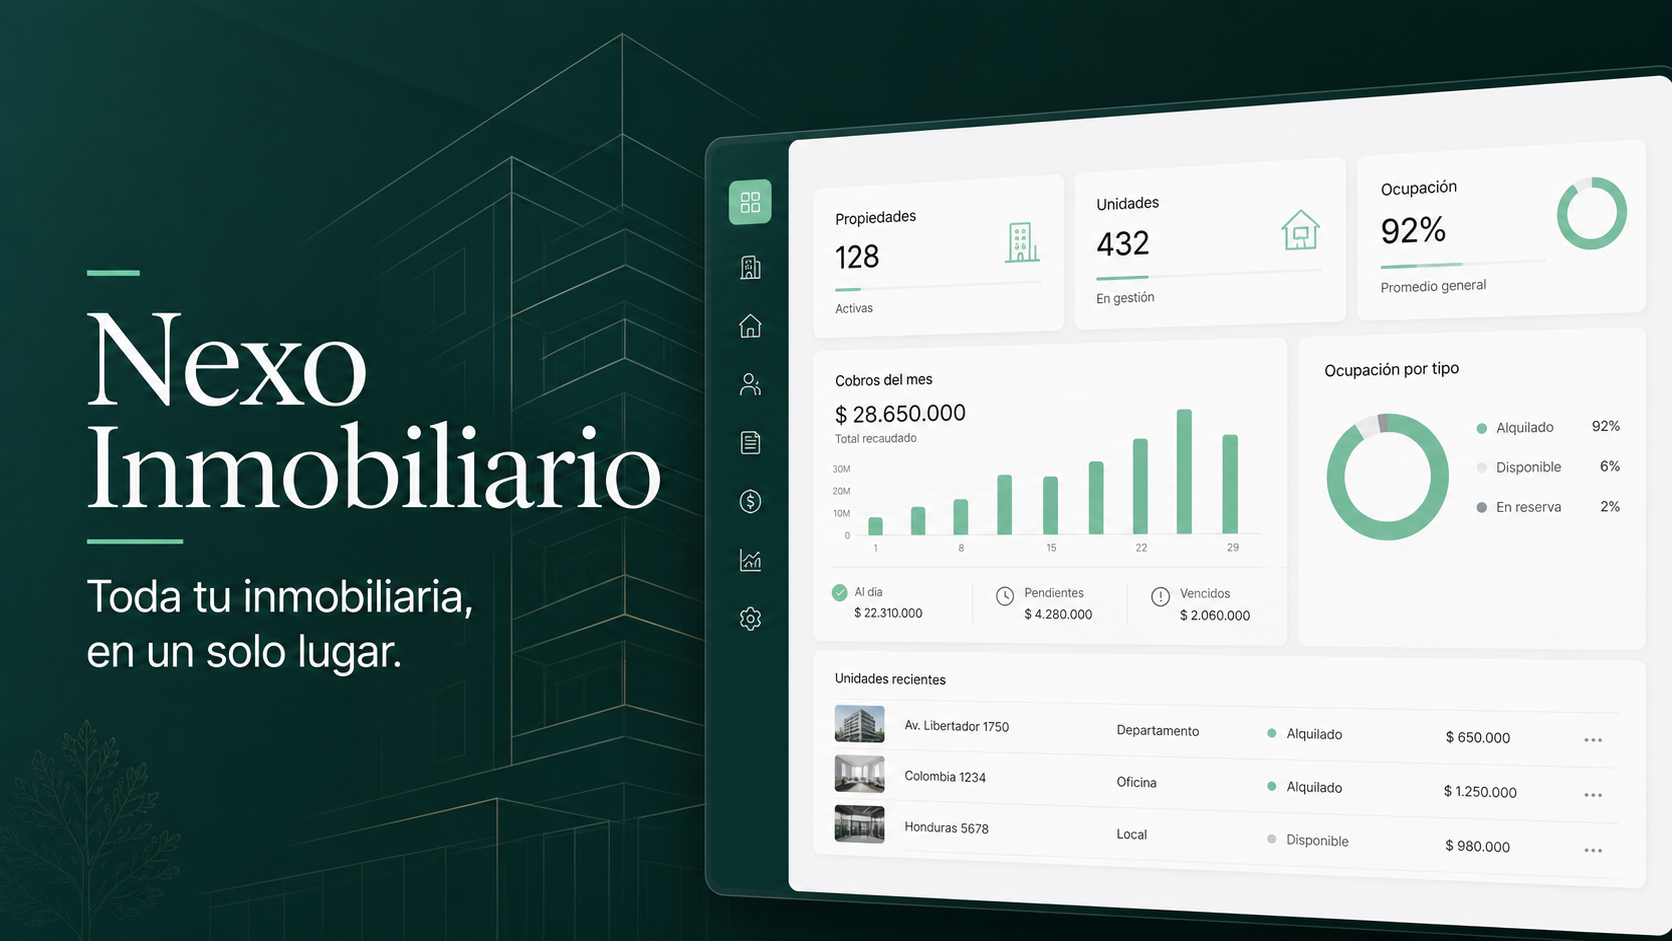
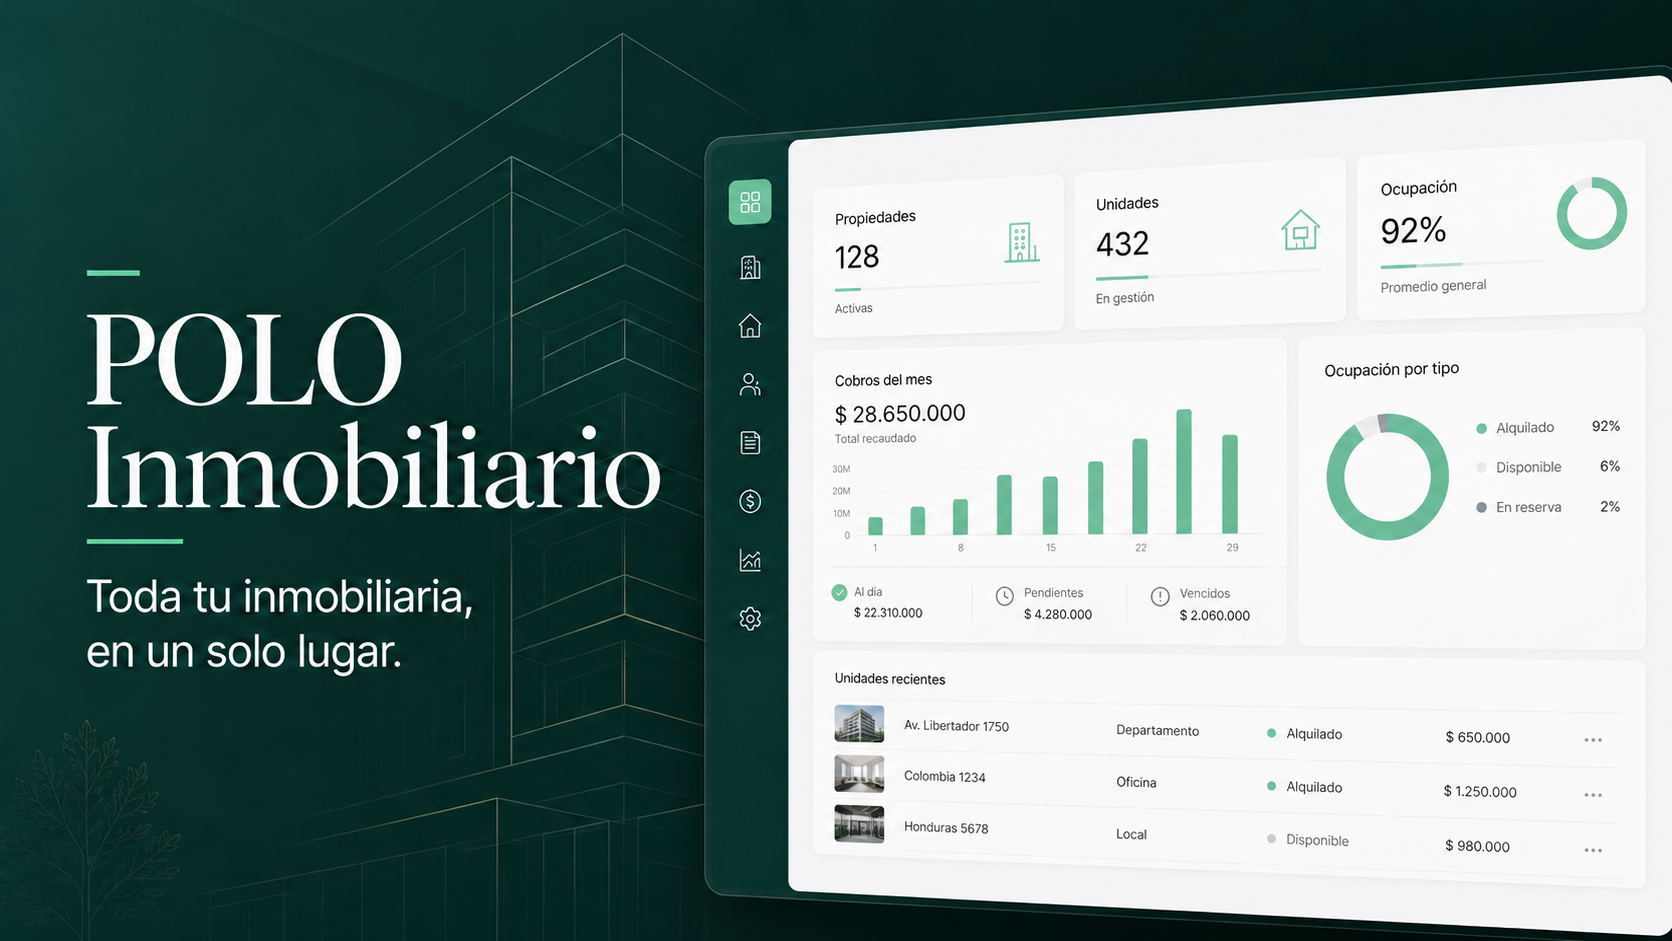
Rename Nexo branding to POLO Inmobiliario

diff --git a/src/features/PoloApp.tsx b/src/features/PoloApp.tsx
@@ -168,7 +168,7 @@ function toBrowserPath(pathname: string) {
   return pathname === "/" ? `${appBasePath}/` : `${appBasePath}${pathname}`;
 }
 
-export default function NexoApp() {
+export default function PoloApp() {
   const [path, setPath] = useState(() => typeof window === "undefined" ? "/" : fromBrowserPath(window.location.pathname));
   const [appReady, setAppReady] = useState(false);
   const [authenticated, setAuthenticated, authHydrated] = usePersistentState("nexo-auth", false);
@@ -363,7 +363,7 @@ function LandingPage({ onNavigate }: { onNavigate: (path: string) => void }) {
 }
 
 function LoginPage({ onLogin }: { onLogin: () => void }) {
-  const [email, setEmail] = useState("admin@nexoinmobiliario.com");
+  const [email, setEmail] = useState("admin@poloinmobiliario.com");
   const [password, setPassword] = useState("123456");
   const [loading, setLoading] = useState(false);
   const [error, setError] = useState("");
@@ -375,7 +375,7 @@ function LoginPage({ onLogin }: { onLogin: () => void }) {
   return (
     <div className="login-page">
       <section className="login-brand-panel"><div className="login-brand-top"><Logo /></div><div className="login-message"><span className="pill pill-dark"><Zap size={14} /> Todo bajo control</span><h1>Toda tu inmobiliaria,<br />en un solo lugar.</h1><p>Gestioná propiedades, contratos, pagos e inquilinos desde una plataforma simple y organizada.</p><div className="login-preview"><div><span><Building2 size={17} /></span><p><strong>86 propiedades</strong><small>84% de ocupación</small></p></div><div><span><WalletCards size={17} /></span><p><strong>$ 18,45 M</strong><small>cobrados este mes</small></p></div><div><span><ShieldCheck size={17} /></span><p><strong>Visión completa</strong><small>sin planillas dispersas</small></p></div></div></div><small className="login-location"><MapPin size={14} /> Mendoza, Argentina</small></section>
-      <section className="login-form-panel"><form onSubmit={submit}><div className="mobile-login-logo"><Logo /></div><div className="login-form-head"><span className="eyebrow">Bienvenido de nuevo</span><h2>Ingresá a tu cuenta</h2><p>Usá el acceso de demostración para explorar la plataforma.</p></div><TextInput label="Email" type="email" value={email} onChange={(event) => setEmail(event.target.value)} autoComplete="email" /><TextInput label="Contraseña" type="password" value={password} onChange={(event) => setPassword(event.target.value)} autoComplete="current-password" />{error && <div className="form-alert"><AlertCircle size={16} />{error}</div>}<div className="login-options"><label><input type="checkbox" defaultChecked /> Recordarme</label><button type="button" onClick={() => setError("En la demo no necesitás recuperar la contraseña.")}>¿Olvidaste tu contraseña?</button></div><Button variant="primary" type="submit" loading={loading}>Ingresar</Button><div className="demo-credentials"><span><Command size={15} /></span><div><strong>Acceso demo</strong><small>admin@nexoinmobiliario.com · 123456</small></div></div><p className="security-note"><ShieldCheck size={14} /> Entorno de demostración. No se procesan datos reales.</p></form></section>
+      <section className="login-form-panel"><form onSubmit={submit}><div className="mobile-login-logo"><Logo /></div><div className="login-form-head"><span className="eyebrow">Bienvenido de nuevo</span><h2>Ingresá a tu cuenta</h2><p>Usá el acceso de demostración para explorar la plataforma.</p></div><TextInput label="Email" type="email" value={email} onChange={(event) => setEmail(event.target.value)} autoComplete="email" /><TextInput label="Contraseña" type="password" value={password} onChange={(event) => setPassword(event.target.value)} autoComplete="current-password" />{error && <div className="form-alert"><AlertCircle size={16} />{error}</div>}<div className="login-options"><label><input type="checkbox" defaultChecked /> Recordarme</label><button type="button" onClick={() => setError("En la demo no necesitás recuperar la contraseña.")}>¿Olvidaste tu contraseña?</button></div><Button variant="primary" type="submit" loading={loading}>Ingresar</Button><div className="demo-credentials"><span><Command size={15} /></span><div><strong>Acceso demo</strong><small>admin@poloinmobiliario.com · 123456</small></div></div><p className="security-note"><ShieldCheck size={14} /> Entorno de demostración. No se procesan datos reales.</p></form></section>
     </div>
   );
 }
@@ -571,15 +571,15 @@ function ReportTooltip({ active, payload, label }: { active?: boolean; payload?:
 
 function SettingsPage(props: ScreenProps) {
   const [saved, setSaved] = useState(false);
-  return <div className="page settings-page"><PageHeader title="Configuración" description="Personalizá la información y las preferencias de tu inmobiliaria." /><div className="settings-layout"><nav><button className="active"><Building2 size={17} />Información inmobiliaria</button><button><UsersRound size={17} />Usuarios</button><button><Bell size={17} />Notificaciones</button><button><Settings size={17} />Preferencias</button></nav><div><SectionCard title="Información inmobiliaria" description="Estos datos se muestran en documentos y comunicaciones."><form className="settings-form" onSubmit={(event) => { event.preventDefault(); setSaved(true); props.showToast("Configuración guardada correctamente"); }}><TextInput label="Nombre comercial" defaultValue="Nexo Inmobiliario Mendoza" /><TextInput label="Email administrativo" type="email" defaultValue="administracion@nexoinmobiliario.com" /><TextInput label="Teléfono" defaultValue="+54 261 555-0147" /><TextInput label="Ubicación" defaultValue="Mendoza, Argentina" /><Field label="Descripción" className="field-wide"><textarea defaultValue="Administración integral de propiedades, contratos y cobranzas." rows={4} /></Field><div className="form-actions field-wide"><Button variant="ghost" type="button">Cancelar</Button><Button variant="primary" type="submit" icon={saved ? <Check size={15} /> : undefined}>{saved ? "Cambios guardados" : "Guardar cambios"}</Button></div></form></SectionCard><SectionCard title="Preferencias de la demo" description="Configuración local de visualización."><div className="preference-list"><span><div><strong>Notificaciones de vencimientos</strong><small>Recibir alertas 30, 15 y 5 días antes.</small></div><label className="switch"><input type="checkbox" defaultChecked /><i /></label></span><span><div><strong>Resumen semanal</strong><small>Actividad, cobros y tareas cada lunes.</small></div><label className="switch"><input type="checkbox" defaultChecked /><i /></label></span><span><div><strong>Confirmación en acciones sensibles</strong><small>Solicitar confirmación antes de eliminar.</small></div><label className="switch"><input type="checkbox" defaultChecked /><i /></label></span></div></SectionCard></div></div></div>;
+  return <div className="page settings-page"><PageHeader title="Configuración" description="Personalizá la información y las preferencias de tu inmobiliaria." /><div className="settings-layout"><nav><button className="active"><Building2 size={17} />Información inmobiliaria</button><button><UsersRound size={17} />Usuarios</button><button><Bell size={17} />Notificaciones</button><button><Settings size={17} />Preferencias</button></nav><div><SectionCard title="Información inmobiliaria" description="Estos datos se muestran en documentos y comunicaciones."><form className="settings-form" onSubmit={(event) => { event.preventDefault(); setSaved(true); props.showToast("Configuración guardada correctamente"); }}><TextInput label="Nombre comercial" defaultValue="POLO Inmobiliario Mendoza" /><TextInput label="Email administrativo" type="email" defaultValue="administracion@poloinmobiliario.com" /><TextInput label="Teléfono" defaultValue="+54 261 555-0147" /><TextInput label="Ubicación" defaultValue="Mendoza, Argentina" /><Field label="Descripción" className="field-wide"><textarea defaultValue="Administración integral de propiedades, contratos y cobranzas." rows={4} /></Field><div className="form-actions field-wide"><Button variant="ghost" type="button">Cancelar</Button><Button variant="primary" type="submit" icon={saved ? <Check size={15} /> : undefined}>{saved ? "Cambios guardados" : "Guardar cambios"}</Button></div></form></SectionCard><SectionCard title="Preferencias de la demo" description="Configuración local de visualización."><div className="preference-list"><span><div><strong>Notificaciones de vencimientos</strong><small>Recibir alertas 30, 15 y 5 días antes.</small></div><label className="switch"><input type="checkbox" defaultChecked /><i /></label></span><span><div><strong>Resumen semanal</strong><small>Actividad, cobros y tareas cada lunes.</small></div><label className="switch"><input type="checkbox" defaultChecked /><i /></label></span><span><div><strong>Confirmación en acciones sensibles</strong><small>Solicitar confirmación antes de eliminar.</small></div><label className="switch"><input type="checkbox" defaultChecked /><i /></label></span></div></SectionCard></div></div></div>;
 }
 
 function HelpPage({ showToast }: ScreenProps) {
-  return <div className="page"><PageHeader title="Centro de ayuda" description="Respuestas rápidas para aprovechar Nexo al máximo." actions={<Button variant="primary" icon={<MessageSquareText size={16} />} onClick={() => showToast("Consulta enviada al equipo de soporte")}>Contactar soporte</Button>} /><div className="help-hero"><Headphones size={28} /><div><h2>¿En qué podemos ayudarte?</h2><p>Buscá una guía o explorá las preguntas más frecuentes.</p><div className="search-field"><Search size={17} /><input placeholder="Buscar en el centro de ayuda…" /></div></div></div><div className="help-grid">{[{ icon: Building2, title: "Propiedades", text: "Altas, edición y organización de la cartera." }, { icon: FileCheck2, title: "Contratos", text: "Vigencias, ajustes y renovaciones." }, { icon: CreditCard, title: "Pagos", text: "Registro, comprobantes y estados." }, { icon: Wrench, title: "Mantenimiento", text: "Tickets, prioridades y seguimiento." }].map(({ icon: Icon, title, text }) => <SectionCard key={title}><div className="help-card"><span><Icon size={20} /></span><h3>{title}</h3><p>{text}</p><button className="text-link">Ver artículos <ArrowRight size={13} /></button></div></SectionCard>)}</div></div>;
+  return <div className="page"><PageHeader title="Centro de ayuda" description="Respuestas rápidas para aprovechar POLO al máximo." actions={<Button variant="primary" icon={<MessageSquareText size={16} />} onClick={() => showToast("Consulta enviada al equipo de soporte")}>Contactar soporte</Button>} /><div className="help-hero"><Headphones size={28} /><div><h2>¿En qué podemos ayudarte?</h2><p>Buscá una guía o explorá las preguntas más frecuentes.</p><div className="search-field"><Search size={17} /><input placeholder="Buscar en el centro de ayuda…" /></div></div></div><div className="help-grid">{[{ icon: Building2, title: "Propiedades", text: "Altas, edición y organización de la cartera." }, { icon: FileCheck2, title: "Contratos", text: "Vigencias, ajustes y renovaciones." }, { icon: CreditCard, title: "Pagos", text: "Registro, comprobantes y estados." }, { icon: Wrench, title: "Mantenimiento", text: "Tickets, prioridades y seguimiento." }].map(({ icon: Icon, title, text }) => <SectionCard key={title}><div className="help-card"><span><Icon size={20} /></span><h3>{title}</h3><p>{text}</p><button className="text-link">Ver artículos <ArrowRight size={13} /></button></div></SectionCard>)}</div></div>;
 }
 
 function ProfilePage({ showToast }: ScreenProps) {
-  return <div className="page profile-page"><PageHeader title="Mi perfil" description="Administrá tus datos personales y preferencias de acceso." /><div className="profile-layout"><SectionCard><div className="profile-card"><Avatar name="Maximiliano Alderete" size="lg" /><h2>Maximiliano Alderete</h2><p>Administrador</p><Badge>Activo</Badge><hr /><span><Mail size={16} />administracion@nexoinmobiliario.com</span><span><MapPin size={16} />Mendoza, Argentina</span></div></SectionCard><SectionCard title="Datos personales"><form className="settings-form" onSubmit={(event) => { event.preventDefault(); showToast("Perfil actualizado correctamente"); }}><TextInput label="Nombre" defaultValue="Maximiliano" /><TextInput label="Apellido" defaultValue="Alderete" /><TextInput label="Email" defaultValue="administracion@nexoinmobiliario.com" /><TextInput label="Teléfono" defaultValue="+54 261 555-0147" /><div className="form-actions field-wide"><Button variant="primary" type="submit">Guardar cambios</Button></div></form></SectionCard></div></div>;
+  return <div className="page profile-page"><PageHeader title="Mi perfil" description="Administrá tus datos personales y preferencias de acceso." /><div className="profile-layout"><SectionCard><div className="profile-card"><Avatar name="Maximiliano Alderete" size="lg" /><h2>Maximiliano Alderete</h2><p>Administrador</p><Badge>Activo</Badge><hr /><span><Mail size={16} />administracion@poloinmobiliario.com</span><span><MapPin size={16} />Mendoza, Argentina</span></div></SectionCard><SectionCard title="Datos personales"><form className="settings-form" onSubmit={(event) => { event.preventDefault(); showToast("Perfil actualizado correctamente"); }}><TextInput label="Nombre" defaultValue="Maximiliano" /><TextInput label="Apellido" defaultValue="Alderete" /><TextInput label="Email" defaultValue="administracion@poloinmobiliario.com" /><TextInput label="Teléfono" defaultValue="+54 261 555-0147" /><div className="form-actions field-wide"><Button variant="primary" type="submit">Guardar cambios</Button></div></form></SectionCard></div></div>;
 }
 
 function NotFoundPage({ onNavigate }: { onNavigate: (path: string) => void }) {

diff --git a/app/layout.tsx b/app/layout.tsx
@@ -9,8 +9,8 @@ const siteOrigin = new URL(siteUrl).origin;
 export const metadata: Metadata = {
   metadataBase: new URL(siteOrigin),
   title: {
-    default: "Nexo Inmobiliario",
-    template: "%s · Nexo Inmobiliario",
+    default: "POLO Inmobiliario",
+    template: "%s · POLO Inmobiliario",
   },
   description: "Gestión de propiedades, contratos, pagos y clientes para inmobiliarias de Mendoza.",
   icons: {
@@ -18,15 +18,15 @@ export const metadata: Metadata = {
     shortcut: `${assetBasePath}/favicon.svg`,
   },
   openGraph: {
-    title: "Nexo Inmobiliario",
+    title: "POLO Inmobiliario",
     description: "Toda tu inmobiliaria, en un solo lugar.",
     locale: "es_AR",
     type: "website",
-    images: [{ url: `${assetBasePath}/og.png`, width: 1792, height: 1024, alt: "Nexo Inmobiliario - toda tu inmobiliaria, en un solo lugar" }],
+    images: [{ url: `${assetBasePath}/og.png`, width: 1672, height: 941, alt: "POLO Inmobiliario - toda tu inmobiliaria, en un solo lugar" }],
   },
   twitter: {
     card: "summary_large_image",
-    title: "Nexo Inmobiliario",
+    title: "POLO Inmobiliario",
     description: "Toda tu inmobiliaria, en un solo lugar.",
     images: [`${assetBasePath}/og.png`],
   },

diff --git a/src/components/ui.tsx b/src/components/ui.tsx
@@ -7,14 +7,14 @@ import { formatCurrency, initials } from "@/src/utils/format";
 
 export function Logo({ compact = false }: { compact?: boolean }) {
   return (
-    <div className={`brand ${compact ? "brand-compact" : ""}`} aria-label="Nexo Inmobiliario">
+    <div className={`brand ${compact ? "brand-compact" : ""}`} aria-label="POLO Inmobiliario">
       <span className="brand-mark" aria-hidden="true">
         <span />
         <span />
       </span>
       {!compact && (
         <span className="brand-copy">
-          <strong>Nexo</strong>
+          <strong>POLO</strong>
           <small>Inmobiliario</small>
         </span>
       )}
@@ -107,7 +107,7 @@ export function PropertyVisual({ variant, className = "", label }: { variant: nu
   return (
     <div className={`property-visual visual-${((variant - 1) % 8) + 1} ${className}`} role="img" aria-label={label ?? "Vista arquitectónica de la propiedad"}>
       <span className="architecture-lines" aria-hidden="true"><i /><i /><i /><i /></span>
-      <span className="visual-label"><Building2 size={14} /> Nexo selección</span>
+      <span className="visual-label"><Building2 size={14} /> POLO selección</span>
     </div>
   );
 }

diff --git a/app/[...slug]/page.tsx b/app/[...slug]/page.tsx
@@ -1,4 +1,4 @@
-import NexoApp from "@/src/features/NexoApp";
+import PoloApp from "@/src/features/PoloApp";
 
 const sectionRoutes = [
   "login",
@@ -29,5 +29,5 @@ export function generateStaticParams() {
 }
 
 export default function AppRoutePage() {
-  return <NexoApp />;
+  return <PoloApp />;
 }

diff --git a/app/page.tsx b/app/page.tsx
@@ -1,5 +1,5 @@
-import NexoApp from "@/src/features/NexoApp";
+import PoloApp from "@/src/features/PoloApp";
 
 export default function HomePage() {
-  return <NexoApp />;
+  return <PoloApp />;
 }

diff --git a/README.md b/README.md
@@ -1,4 +1,4 @@
-# Nexo Inmobiliario
+# POLO Inmobiliario
 
 Piloto frontend de una plataforma SaaS para administrar inmobiliarias de Mendoza. Centraliza propiedades, propietarios, inquilinos, contratos, pagos, gastos, mantenimiento, documentos y reportes en una experiencia navegable y comercialmente presentable.
 
@@ -15,7 +15,7 @@ La aplicación queda disponible en `http://localhost:3000`.
 
 ## Acceso demo
 
-- Email: `admin@nexoinmobiliario.com`
+- Email: `admin@poloinmobiliario.com`
 - Contraseña: `123456`
 
 El acceso es simulado. También se acepta cualquier email válido y una contraseña de al menos seis caracteres.
